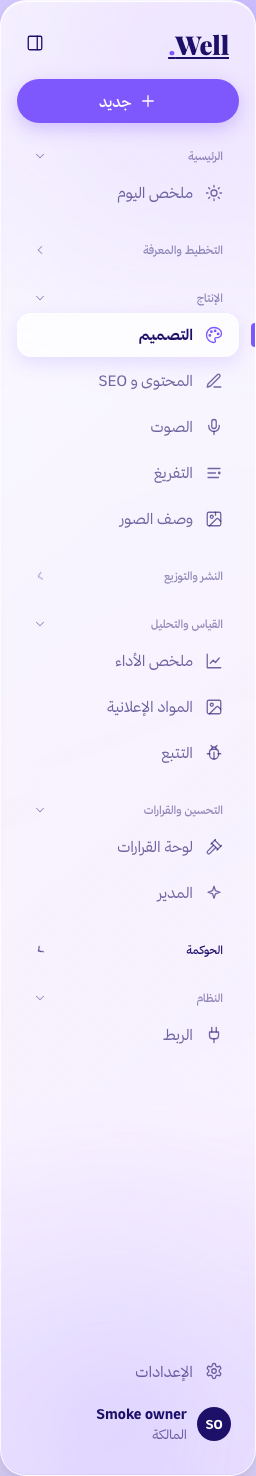
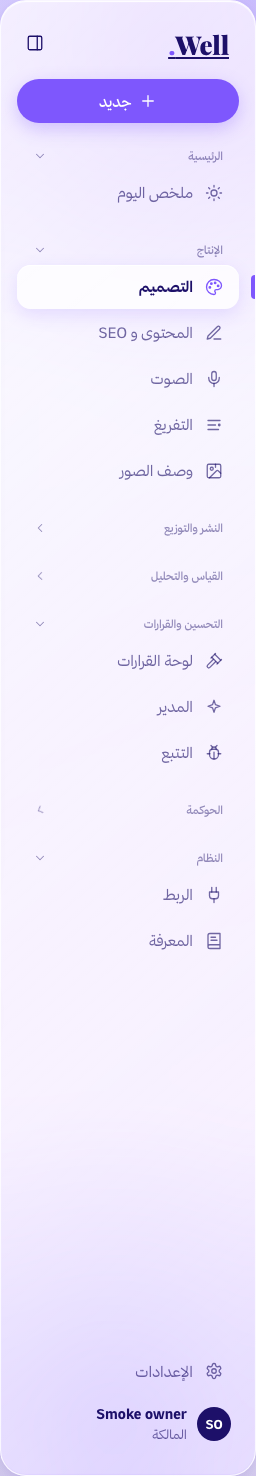
feat(nav): approved 7-group structure; Manager page groups agents, tasks and the tab picker by the same groups; docs/agents-org.md

diff --git a/public/modules/maestro/client.js b/public/modules/maestro/client.js
@@ -1,6 +1,6 @@
 // المدير: تبويبات (لوحة، الوارد، المهام، الإيجنتس، المحادثة) بالرابط، قائمة أو لوحة، فلاتر، بحث، ومهمة جديدة في نافذة.
 // اختصارات: C مهمة جديدة، / بحث، 1-5 التبويبات.
-import { $, $$, api, say, esc, fmt, shell, busy, pageSignal, failure, pageFailure, when } from '/assets/common.js';
+import { LANG, $, $$, api, say, esc, fmt, shell, busy, pageSignal, failure, pageFailure, when } from '/assets/common.js';
 import { mountPeriod } from '/assets/period.js';
 
 // Runs on every visit of this page (assets/router.js calls it after each ClientRouter navigation).
@@ -36,6 +36,18 @@ export default async function mount() {
   const working = id => (S.issues || []).find(i => i.assigneeAgentId === id && i.status === 'in_progress');
   const matches = (...xs) => { const q = $('#q').value.trim().toLowerCase(); return !q || xs.some(x => String(x || '').toLowerCase().includes(q)); };
 
+  // The same groups as the sidebar (S.groups, from the server): lists and the task picker are grouped by them
+  const GEN = ['general', 'عام', 'General'];
+  const glabel = g => (LANG === 'en' ? g.en : g.ar);
+  const tabGroup = k => (S.tabs || []).find(t => t.key === k)?.group || GEN[0];
+  const issueGroup = i => tabGroup((S.projectTabs || {})[i.projectId]);
+  const agentGroup = id => issueGroup((S.issues || []).find(i => i.assigneeAgentId === id && (S.projectTabs || {})[i.projectId]) || {});
+  const grouped = (items, keyOf, render) => {
+    const gs = [...(S.groups || []), { key: GEN[0], ar: GEN[1], en: GEN[2] }];
+    return gs.map(g => { const xs = items.filter(x => (gs.some(y => y.key === keyOf(x)) ? keyOf(x) : GEN[0]) === g.key);
+      return xs.length ? `<section class="mx-grp"><h3 class="mx-gh">${esc(glabel(g))} <span class="muted">${xs.length}</span></h3><div class="mx-list">${xs.map(render).join('')}</div></section>` : ''; }).join('');
+  };
+
   // ---- the views
   const taskRow = i => `<article class="card mx-item"><span class="mx-dot ${esc(i.status)}" title="${esc(S.statuses[i.status] || i.status)}"></span><span class="mx-id">${esc(i.identifier || '')}</span>
     <b>${esc(i.title || '')}</b>${tabName(i) ? `<span class="so-chip mx-tab">${esc(tabName(i))}</span>` : ''}<span class="muted">${esc(names()[i.assigneeAgentId] || '')}</span><span class="so-chip">${esc(S.statuses[i.status] || i.status)}</span></article>`;
@@ -59,7 +71,7 @@ export default async function mount() {
   function tasks() {
     const is = (S.issues || []).filter(i => (filter === 'all' || i.status === filter) && matches(i.title, i.identifier, names()[i.assigneeAgentId], tabName(i)));
     if (!is.length) return empty('tasks', 'ما فيه مهام تطابق الفلتر أو البحث.', 'أنشئ مهمة');
-    if (layout === 'list') return `<div class="mx-list">${is.map(taskRow).join('')}</div>`;
+    if (layout === 'list') return grouped(is, issueGroup, taskRow);
     return `<div class="mx-cols">${COLS.map(c => { const col = is.filter(i => i.status === c || (c === 'todo' && i.status === 'backlog'));
       return `<section class="mx-col"><h3><span class="mx-dot ${c}"></span>${esc(S.statuses[c] || c)} <span class="muted">${col.length}</span></h3>${col.map(taskRow).join('')}</section>`; }).join('')}</div>`;
   }
@@ -70,7 +82,7 @@ export default async function mount() {
     const card = a => `<article class="card mx-item" data-agent="${esc(a.id)}"><span class="mx-dot ${a.status === 'running' ? 'in_progress' : a.status === 'error' ? 'blocked' : a.status === 'paused' ? 'cancelled' : 'done'}"></span>
       <b>${esc(a.name)}</b><span class="muted">${esc(a.title || a.role || '')}</span><span class="so-chip">${AG[a.status] || esc(a.status)}</span>
       ${spend(a)}${tabsOf(a.id).length ? `<span class="muted">التابات: ${esc(tabsOf(a.id).join('، '))}</span>` : ''}${working(a.id) ? `<span class="mx-now">يشتغل على: ${esc(working(a.id).identifier || '')} ${esc(working(a.id).title || '')}</span>` : ''}<button type="button" class="btn sm ghost" data-perf>الأداء</button></article>`;
-    if (layout === 'list') return `<div class="mx-list">${as.map(card).join('')}</div>`;
+    if (layout === 'list') return grouped(as, a => agentGroup(a.id), card);
     // Org chart: who reports to whom
     const ids = new Set(as.map(a => a.id));
     const tree = parent => { const kids = as.filter(a => (a.reportsTo && ids.has(a.reportsTo) ? a.reportsTo : null) === parent);
@@ -133,7 +145,7 @@ export default async function mount() {
     }
     $('#setup').innerHTML = ''; $('#board').hidden = false;
     if (!$('#agent').dataset.done) { $('#agent').insertAdjacentHTML('beforeend', (S.agents || []).map(a => `<option value="${esc(a.id)}">${esc(a.name)}${a.title ? ' · ' + esc(a.title) : ''}</option>`).join('')); $('#agent').dataset.done = '1'; }
-    if (!$('#tab').dataset.done) { $('#tab').insertAdjacentHTML('beforeend', (S.tabs || []).map(t => `<option value="${esc(t.key)}">${esc(t.ar)}</option>`).join('')); $('#tab').dataset.done = '1'; }
+    if (!$('#tab').dataset.done) { $('#tab').insertAdjacentHTML('beforeend', (S.groups || []).map(g => { const ts = (S.tabs || []).filter(t => t.group === g.key); return ts.length ? `<optgroup label="${esc(glabel(g))}">${ts.map(t => `<option value="${esc(t.key)}">${esc(t.ar)}</option>`).join('')}</optgroup>` : ''; }).join('')); $('#tab').dataset.done = '1'; }
     draw();
   }
 

diff --git a/src/modules/maestro/routes.ts b/src/modules/maestro/routes.ts
@@ -4,7 +4,7 @@ import { summarize, TARGETS, type VitalRow } from '../../lib/vitals';
 import { sb, json, missingSchema, notApplied, readJson, handle, requireUser, audit, isOwner, atLeast, notEnabled, type AuthEnv, type Cfg } from '../../lib/auth';
 import { budget, chatLines, client, cleanTask, items, performance, STATUS, tabOf, withBrief, type PcEnv } from './paperclip';
 import { parseRangeParams, rangeMs } from '../../../public/assets/period.js';
-import { MODULES } from '../registry';
+import { MODULES, GROUPS } from '../registry';
 import { knowledgeFor } from '../knowledge/knowledge';
 import { crmFor } from './health';
 import { dataHealth, PARTS, type Part } from './datahealth';
@@ -17,7 +17,7 @@ async function companyOf(cfg: Cfg, co: string): Promise<Co | null> {
   return r.ok && Array.isArray(r.data) ? r.data[0] || null : null;
 }
 // The tabs a task can be sent to (every live tab but this one), and which Paperclip project belongs to which tab
-const TABS = MODULES.filter(m => m.status === 'live' && m.key !== 'maestro').map(m => ({ key: m.key, ar: m.ar }));
+const TABS = MODULES.filter(m => m.status === 'live' && m.key !== 'maestro').map(m => ({ key: m.key, ar: m.ar, group: m.group }));
 const projectTabs = (projects: Record<string, unknown>[]) => Object.fromEntries(projects.map(p => [String(p.id), tabOf(p.name)]).filter(([, k]) => k));
 const notSet = (user?: { role: string }) => json(503, { error: notEnabled(user, 'المدير', 'PAPERCLIP_URL و PAPERCLIP_TOKEN'), setup: true });
 
@@ -30,7 +30,7 @@ export const state = { GET: handle(async (request, e: Env) => {
   let agents: unknown[] = [], issues: unknown[] = [], approvals: unknown[] = [], company: Record<string, unknown> = {}, projects: Record<string, unknown>[] = [];
   try { [agents, issues, approvals, company, projects] = await Promise.all([pc.agents(c.paperclip_company_id), pc.issues(c.paperclip_company_id), pc.approvals(c.paperclip_company_id), pc.company(c.paperclip_company_id), pc.projects(c.paperclip_company_id)]); }
   catch (err) { console.error('maestro_state_failed', (err as Error).message); return json(502, { error: 'المدير مو متاح الحين، جرّب بعد شوي' }); }
-  return json(200, { connected: true, owner: isOwner(user, cfg), canApprove: atLeast(user, 'maestro', 'approve', cfg), canEdit: atLeast(user, 'maestro', 'edit', cfg), statuses: STATUS, budget: budget(company), tabs: TABS, projectTabs: projectTabs(projects), agents, issues, approvals });
+  return json(200, { connected: true, owner: isOwner(user, cfg), canApprove: atLeast(user, 'maestro', 'approve', cfg), canEdit: atLeast(user, 'maestro', 'edit', cfg), statuses: STATUS, budget: budget(company), tabs: TABS, groups: GROUPS, projectTabs: projectTabs(projects), agents, issues, approvals });
 }) };
 
 // One agent's performance card for a period: ?from=&to= (Riyadh days, at most a year) or the old ?days=7|30

diff --git a/tests/unit/sidebar.test.ts b/tests/unit/sidebar.test.ts
@@ -37,18 +37,18 @@ describe('sidebar', () => {
 
 describe('sidebar groups', () => {
   const secs = (m: ReturnType<typeof me>) => sections(m, L) as { key: string; label: string; items: Item[] }[];
-  it('follows the marketing order: plan, create, distribute, measure, optimize, govern, system', () => {
-    expect(secs(me()).map(s => s.key)).toEqual(['home', 'plan', 'produce', 'distribute', 'measure', 'optimize', 'govern', 'system']);
-    expect(secs(me()).map(s => s.label)).toEqual(['الرئيسية', 'التخطيط والمعرفة', 'الإنتاج', 'النشر والتوزيع', 'القياس والتحليل', 'التحسين والقرارات', 'الحوكمة', 'النظام']);
+  it('follows the marketing order: create, distribute, measure, optimize, govern, system', () => {
+    expect(secs(me()).map(s => s.key)).toEqual(['home', 'produce', 'distribute', 'measure', 'optimize', 'govern', 'system']);
+    expect(secs(me()).map(s => s.label)).toEqual(['الرئيسية', 'الإنتاج', 'النشر والتوزيع', 'القياس والتحليل', 'التحسين والقرارات', 'الحوكمة', 'النظام']);
   });
   it('puts every tab in its group', () => {
     const at = Object.fromEntries(secs(me()).flatMap(s => s.items.map(i => [i.text, s.key])));
     expect(at).toMatchObject({
-      'الرصد': 'plan', 'المعرفة': 'plan',
+      'الرصد': 'measure', 'المعرفة': 'system',
       'التصميم': 'produce', 'المحتوى و SEO': 'produce', 'الصوت': 'produce', 'التفريغ': 'produce', 'وصف الصور': 'produce',
       'السوشال': 'distribute', 'الرحلات والرسائل': 'distribute',
-      'ملخص الأداء': 'measure', 'المواد الإعلانية': 'measure', 'التتبع': 'measure',
-      'لوحة القرارات': 'optimize', 'المدير': 'optimize',
+      'ملخص الأداء': 'measure', 'المواد الإعلانية': 'measure',
+      'لوحة القرارات': 'optimize', 'المدير': 'optimize', 'التتبع': 'optimize',
       'الامتثال': 'govern', 'السجل': 'govern', 'الصلاحيات': 'govern',
       'الربط': 'system',
     });
@@ -59,5 +59,14 @@ describe('sidebar groups', () => {
   });
   it('shows owner-only Permissions to the owner only', () => {
     expect(secs(me({ role: 'member' })).flatMap(s => s.items).some(i => i.key === 'admin')).toBe(false);
+  });
+});
+
+describe('one list of groups', () => {
+  it('every module sits in a group of the shared list, and each group has a tab', async () => {
+    const { GROUPS } = await import('../../src/modules/registry');
+    const keys = GROUPS.map(g => g.key);
+    expect(keys).toEqual(['home', 'produce', 'distribute', 'measure', 'optimize', 'govern', 'system']);
+    for (const m of MODULES) expect(keys, m.key).toContain(m.group);
   });
 });

diff --git a/public/assets/sidebar.js b/public/assets/sidebar.js
@@ -1,5 +1,5 @@
 // أقسام القائمة الجانبية، نفسها في common.js (صفحات Astro) و nav.js (لوحات التحليلات والمواد الإعلانية).
-// ثمانية أقسام على ترتيب التسويق: الرئيسية ← التخطيط ← الإنتاج ← النشر ← القياس ← التحسين ← الحوكمة ← النظام. تحت كل قسم أدواته. الموديولات تجي من السيرفر (me.modules ← src/modules/registry.ts)
+// سبعة أقسام على ترتيب التسويق: الرئيسية ← الإنتاج ← النشر ← القياس ← التحسين ← الحوكمة ← النظام. تحت كل قسم أدواته. الموديولات تجي من السيرفر (me.modules ← src/modules/registry.ts)
 // وكل موديول يحدد قسمه بـ group. HUBS (src/lib/gate.ts) تبقى للروابط القديمة /performance و/create و/review و/system.
 // state: ok = يفتح، noaccess = ما عندك صلاحية، locked = مقفل لشركتك، soon = قريباً.
 const SUN = '<circle cx="12" cy="12" r="4"/><path d="M12 2v2M12 20v2M4.9 4.9l1.4 1.4M17.7 17.7l1.4 1.4M2 12h2M20 12h2M4.9 19.1l1.4-1.4M17.7 6.3l1.4-1.4"/>';
@@ -7,7 +7,6 @@ const SHIELD = '<path d="M20 13c0 5-3.5 7.5-7.7 9a1 1 0 0 1-.6 0C7.5 20.5 4 18 4
 
 export const GROUPS = [
   ['home', 'الرئيسية', 'Home'],
-  ['plan', 'التخطيط والمعرفة', 'Plan & knowledge'],
   ['produce', 'الإنتاج', 'Create'],
   ['distribute', 'النشر والتوزيع', 'Publish & distribute'],
   ['measure', 'القياس والتحليل', 'Measure & analyze'],
@@ -57,10 +56,9 @@ export function sections(me, L) {
   const one = (useNew, newer, older) => (useNew ? newer : older);
   const items = {
     home: [core('/today/', 'ملخص اليوم', 'Today', SUN, 'today', true), ...mods('home')],
-    plan: mods('plan'),
     produce: mods('produce'),
     distribute: mods('distribute'),
-    // ملخص الأداء (موديول overview وصفحاته) أول، بعده المواد الإعلانية، بعدها أدوات القياس (التتبع)
+    // ملخص الأداء (موديول overview وصفحاته) أول، بعده المواد الإعلانية، بعدها الرصد
     measure: [
       one(ov, core('/overview/', 'ملخص الأداء', 'Performance summary', 'chart', 'overview', true), core('/', 'ملخص الأداء', 'Performance summary', 'chart', 'ceo')),
       one(ov, core('/overview/creative/', 'المواد الإعلانية', 'Creatives', 'image', 'overview:creative', true), core('/?view=creative', 'المواد الإعلانية', 'Creatives', 'image', 'creative')),

diff --git a/src/modules/registry.ts b/src/modules/registry.ts
@@ -1,6 +1,8 @@
 // Every tab of the agents system, in sidebar order. Adding a tab = a folder with module.ts, then one line here.
 // Meta only (no routes), so auth and the gate can read it without importing the modules' code.
 import type { ModuleMeta } from './types';
+// The sidebar groups: one list, defined next to the sidebar (public/assets/sidebar.js) and read here, by the Manager page and by the tests
+import { GROUPS as SIDEBAR_GROUPS } from '../../public/assets/sidebar.js';
 import { meta as maestroMeta } from './maestro/module';
 import { meta as socialMeta } from './social/module';
 import { meta as journeysMeta } from './journeys/module';
@@ -17,9 +19,11 @@ import { meta as transcribeMeta } from './transcribe/module';
 import { meta as visionMeta } from './vision/module';
 import { meta as voiceoverMeta } from './voiceover/module';
 
-// Listed by sidebar group, in marketing order: plan, produce, distribute, measure, optimize, govern, system
-export const MODULES: ModuleMeta[] = [overviewMeta, debuggerMeta, listeningMeta, knowledgeMeta, designMeta, contentMeta, copyMeta, voiceMeta, voiceoverMeta, transcribeMeta, visionMeta, socialMeta, journeysMeta, maestroMeta, complianceMeta];
+// Listed by sidebar group, in marketing order: produce, distribute, measure, optimize, govern, system
+export const MODULES: ModuleMeta[] = [overviewMeta, listeningMeta, designMeta, contentMeta, copyMeta, voiceMeta, voiceoverMeta, transcribeMeta, visionMeta, socialMeta, journeysMeta, maestroMeta, debuggerMeta, complianceMeta, knowledgeMeta];
 export const LIVE = MODULES.filter(m => m.status === 'live').map(m => m.key);
 // The sections of a tab: the modules shown inside it (voiceover in voice, copy in content)
 export const sectionsOf = (key: string): string[] => MODULES.filter(m => m.into === key).map(m => m.key);
 export const isModule = (k: string): boolean => MODULES.some(m => m.key === k);
+
+export const GROUPS: { key: string; ar: string; en: string }[] = (SIDEBAR_GROUPS as string[][]).map(([key, ar, en]) => ({ key: key!, ar: ar!, en: en! }));

diff --git a/tests/smoke/smoke.spec.ts b/tests/smoke/smoke.spec.ts
@@ -198,7 +198,7 @@ test.describe('sidebar and language (browser)', () => {
     await addSession(context, await login(request, 'owner'));
     await page.goto('/today/');
     const heads = page.locator('.side-h[data-g]');
-    await expect(heads).toHaveText(['الرئيسية', 'التخطيط والمعرفة', 'الإنتاج', 'النشر والتوزيع', 'القياس والتحليل', 'التحسين والقرارات', 'الحوكمة', 'النظام']);
+    await expect(heads).toHaveText(['الرئيسية', 'الإنتاج', 'النشر والتوزيع', 'القياس والتحليل', 'التحسين والقرارات', 'الحوكمة', 'النظام']);
     const design = page.locator('a.navi[data-k="design"]');
     await expect(design).toBeVisible();
     await page.locator('.side-h[data-g="produce"]').click();
@@ -209,8 +209,6 @@ test.describe('sidebar and language (browser)', () => {
     // Opening a page of the folded group shows it again, with its highlight
     await page.goto('/design/');
     await expect(page.locator('a.navi[data-k="design"][aria-current="page"]')).toBeVisible();
-    await page.locator('.side-h[data-g="produce"]').click(); // fold is a user choice only while the page is elsewhere: this toggles the open group shut
-    await page.locator('.side-h[data-g="produce"]').click();
     await expect(page.locator('a.navi[data-k="design"]')).toBeVisible();
   });
   test('the language switch flips the page to English, left to right, and back', async ({ page, context, request }) => {

diff --git a/src/modules/debugger/module.ts b/src/modules/debugger/module.ts
@@ -1,7 +1,7 @@
 import type { ModuleMeta } from '../types';
 
 export const meta: ModuleMeta = {
-  key: 'debugger', ar: "التتبع", en: "Tracking", group: 'measure', status: 'live',
+  key: 'debugger', ar: "التتبع", en: "Tracking", group: 'optimize', status: 'live',
   icon: "<path d=\"m8 2 1.9 1.9M16 2l-1.9 1.9\"/><path d=\"M9 7.1V7a3 3 0 1 1 6 0v.1\"/><path d=\"M12 20c-3.3 0-6-2.7-6-6v-3a4 4 0 0 1 4-4h4a4 4 0 0 1 4 4v3c0 3.3-2.7 6-6 6Z\"/><path d=\"M12 20v-9M6.5 13H3M21 13h-3.5\"/>",
   does: ["يفحص التتبع من بياناتنا: منصة وقفت أرقامها، أو إعلان ليدز يصرف بدون ولا ليد", "يقارن ليدز كل منصة بليدز الـ CRM ويطلع الفرق", "ليدز بدون رقم إعلان، وروابط بدون UTM، ومنصات ما توصلها تحويلات موقعك مباشرة", "كل مشكلة معها الحل، وكله قراءة بس"],
   doesEn: ["Checks tracking from our own data: a platform whose numbers stopped, or lead ads spending with no lead", "Compares each platform's leads with CRM leads", "Leads with no ad id, links without UTM, platforms that do not receive your site's conversions directly", "Each issue comes with its fix; read-only"],

diff --git a/src/modules/listening/module.ts b/src/modules/listening/module.ts
@@ -1,7 +1,7 @@
 import type { ModuleMeta } from '../types';
 
 export const meta: ModuleMeta = {
-  key: 'listening', ar: "الرصد", en: "Social listening", group: 'plan', status: 'live',
+  key: 'listening', ar: "الرصد", en: "Social listening", group: 'measure', status: 'live',
   icon: "<path d=\"M7.9 20A9 9 0 1 0 4 16.1L2 22Z\"/>",
   does: ["وش يشد الناس في منشوراتنا على فيسبوك وانستقرام وتيك توك", "تتابع كلمات (خدمات أو منافسين) وتشوف تفاعل الناس معها مقارنة بالمعتاد", "منشورات تفاعلها ضعف المعتاد، ومنشورات فيها نقاش", "تغيّر الطلب من كل مصدر ليدز هالأسبوع مقارنة باللي قبله"],
   doesEn: ["What draws people in our Facebook, Instagram and TikTok posts", "Watch keywords (services or competitors) and their engagement against the usual", "Posts with twice the usual engagement, and posts with conversation", "This week's demand per lead source against last week"],

diff --git a/src/modules/knowledge/module.ts b/src/modules/knowledge/module.ts
@@ -1,7 +1,7 @@
 import type { ModuleMeta } from '../types';
 
 export const meta: ModuleMeta = {
-  key: 'knowledge', ar: "المعرفة", en: "Knowledge", group: 'plan', status: 'live',
+  key: 'knowledge', ar: "المعرفة", en: "Knowledge", group: 'system', status: 'live',
   icon: "<path d=\"M4 19.5v-15A2.5 2.5 0 0 1 6.5 2H20v20H6.5a2.5 2.5 0 0 1 0-5H20\"/><path d=\"M8 7h6\"/><path d=\"M8 11h8\"/>",
   does: ["تعلّم الذكاء الاصطناعي صوت علامتك وخدماتك وأسعارك", "الادعاءات المعتمدة والكلمات الممنوعة", "إعلانات نجحت كأمثلة", "كل موديول يقرا المعرفة الفعّالة قبل ما يكتب"],
   doesEn: ["Teach the AI your brand voice, services and prices", "Approved claims and forbidden words", "Winning ads as examples", "Every module reads the active knowledge before it writes"],

diff --git a/src/modules/types.ts b/src/modules/types.ts
@@ -1,12 +1,12 @@
 // One tab = one module. A module owns its folder (src/modules/<key>/) and its script (public/modules/<key>/client.js).
-// status: live = built; soon = shows "قريباً" with what it will do. group = which of the eight sidebar groups it sits under
+// status: live = built; soon = shows "قريباً" with what it will do. group = which of the seven sidebar groups it sits under
 // (public/assets/sidebar.js GROUPS).
 export interface ModuleMeta {
   key: string;
   ar: string;
   en: string;
   icon: string;          // Lucide SVG paths (stroke 1.75)
-  group: 'home' | 'plan' | 'produce' | 'distribute' | 'measure' | 'optimize' | 'govern' | 'system';
+  group: 'home' | 'produce' | 'distribute' | 'measure' | 'optimize' | 'govern' | 'system';
   status: 'live' | 'soon';
   does: string[];
   doesEn: string[];

diff --git a/docs/agents-org.md b/docs/agents-org.md
@@ -1,0 +1,72 @@
+# هيكل الإيجنتس المستهدف
+
+نفس تقسيم القائمة الجانبية (`GROUPS` في `public/assets/sidebar.js`، ويقرؤه `src/modules/registry.ts` وصفحة المدير). الإيجنتس نفسهم يعيشون في Paperclip (`docs/paperclip.md`)، وهذا الملف هو الشكل اللي نبي نوصله. الكود ما يسوي شي في Paperclip لين يتربط.
+
+## القاعدة الثابتة
+**ولا إيجنت يكتب على الحسابات الإعلانية** (ميتا، تيك توك، سناب، قوقل). كلهم يقرؤون، يقترحون، ويكتبون مسودات ومهام. أي تغيير فعلي (ميزانية، إيقاف، نشر) يمرّ بقرار في لوحة القرارات وموافقة من إنسان.
+
+## الهيكل
+```
+المدير (CEO)
+├─ قائد القياس والتحليل
+│   ├─ محلل الأداء        ← ملخص الأداء والمواد الإعلانية
+│   └─ الراصد             ← الرصد
+├─ قائد الإنتاج
+│   ├─ المصمم             ← التصميم
+│   ├─ الكوبي رايتر       ← المحتوى و SEO (والكوبي رايتر)
+│   ├─ الصوتي             ← الصوت والفويس أوفر
+│   ├─ المفرّغ            ← التفريغ
+│   └─ واصف الصور         ← وصف الصور
+├─ قائد النشر والتوزيع
+│   ├─ مدير السوشال       ← السوشال
+│   └─ مصمم الرحلات       ← الرحلات والرسائل
+├─ قائد التحسين والقرارات
+│   ├─ المتتبع (Debugger) ← التتبع
+│   └─ الناقد / المدقق    ← لوحة القرارات (يراجع قبل ما يوصل قرار للإنسان)
+├─ قائد الحوكمة
+│   └─ مراقب الامتثال     ← الامتثال والسجل
+└─ قائد النظام
+    ├─ أمين المعرفة       ← المعرفة
+    └─ مشرف الربط         ← الربط
+```
+«الرئيسية» (احلم) ما لها قائد: هي واجهة المدير نفسه.
+
+## الإيجنتس: مهمة كل واحد وما يقرأه
+| الإيجنت | مهمته (سطر واحد) | يقرأ | يكتب |
+|---|---|---|---|
+| المدير (CEO) | يوزّع المهام على القادة ويلخّص للمالكة | ملخصات القادة، الوارد | مهام وتعليقات |
+| قائد القياس والتحليل | يتابع الأرقام ويرفع ما يستحق انتباه | ملخص الأداء، المواد، الرصد | مهام وملاحظات |
+| محلل الأداء | يشرح وش تغيّر في الصرف والنتائج ولماذا | أرقام الحملات والمواد (قراءة فقط) | ملاحظات |
+| الراصد | يلخص كلام الناس عن Well والمنافسين | نتائج الرصد | ملخصات |
+| قائد الإنتاج | يرتب طلبات الإنتاج حسب الأولوية | مهام الإنتاج | مهام |
+| المصمم | يقترح تصاميم من الموجز | الموجز، مكتبة المواد | مسودات تصميم |
+| الكوبي رايتر | يكتب نصوص إعلانية ومقالات SEO | الموجز، المعرفة | مسودات نصوص |
+| الصوتي | يجهّز نص وتعليق صوتي | النص المعتمد | مسودات صوت |
+| المفرّغ | يفرّغ الصوت والفيديو لنص | الملفات المرفوعة | نص التفريغ |
+| واصف الصور | يوصف الصور ويكتب النص البديل | الصور المرفوعة | أوصاف |
+| قائد النشر والتوزيع | يرتب جدول النشر والرحلات | جدول السوشال، الرحلات | مهام |
+| مدير السوشال | يجهّز المنشورات والمواعيد | المحتوى المعتمد، الجدول | مسودات منشورات (النشر بموافقة) |
+| مصمم الرحلات | يرسم رحلات الرسائل | بيانات الرحلات | مسودات رحلات |
+| قائد التحسين والقرارات | يحوّل التوصيات لقرارات قابلة للتنفيذ | القرارات، تقارير القياس | مهام |
+| المتتبع (Debugger) | يتأكد إن البكسل والأحداث تنقاس صح | سجلات التتبع | تقرير مشاكل |
+| الناقد / المدقق | يراجع التوصيات ويرفض اللي أرقامه ضعيفة | القرارات المقترحة والأرقام | تعليق قبول أو رفض |
+| قائد الحوكمة | يتأكد إن كل شي يمرّ بالمراجعة | الامتثال، السجل | مهام |
+| مراقب الامتثال | يفحص المحتوى على ضوابط وزارة الصحة | المحتوى والإعلانات (قراءة) | تقرير مخالفات |
+| قائد النظام | يتابع صحة الربط والمعرفة | حالة الربط | مهام |
+| أمين المعرفة | يحدّث المعرفة بالمعتمد فقط | المعرفة والدروس | اقتراحات تحديث |
+| مشرف الربط | ينبّه لما ينقطع ربط منصة | حالة الربط (بدون المفاتيح) | تنبيهات |
+
+لا أحد منهم يقرأ مفاتيح الربط أو الأسرار.
+
+## وش تسوي لين نربط Paperclip (يدوياً، لين)
+1. في Paperclip أنشئ إيجنت لكل صف في الجدول، وخلّ `reportsTo` للقائد، والقادة تحت المدير.
+2. أسند كل إيجنت لمشروع تابه `tab · <مفتاح التاب>` (مثل `tab · social`)، والقادة يتابعون مشاريع تابات مجموعتهم.
+3. اختر الموديل لكل إيجنت (`docs/paperclip.md`) وحدّد ميزانية شهرية.
+4. لا تعطي أي إيجنت مفاتيح الحسابات الإعلانية.
+
+## وش يسوّيه PR لاحق
+- زر للمالكة في المدير يقارن الإيجنتس الموجودين بهذا الجدول ويقترح الإنشاء والنقل (يحتاج اتصال Paperclip، خارج هذا التغيير).
+- إسناد المهمة الجديدة تلقائياً لإيجنت التاب من قائد مجموعته.
+
+## وش تغيّر في الكود الحين
+صفحة المدير تعرض قائمة المهام والإيجنتس مقسّمة بنفس مجموعات القائمة الجانبية (والمهام بدون تاب تحت «عام»)، وقائمة «لأي تاب» في نافذة المهمة مقسّمة بالمجموعات كذلك.

diff --git a/src/modules/README.md b/src/modules/README.md
@@ -5,7 +5,7 @@
 ## ملفات الموديول
 | المكان | وش فيه |
 |---|---|
-| `src/modules/<key>/module.ts` | الاسم بالعربي والإنجليزي، الأيقونة، الوجهة في القائمة (`group`: home / plan / produce / distribute / measure / optimize / govern / system، بترتيب القائمة)، الحالة (`live` / `soon`)، ووش يسوي |
+| `src/modules/<key>/module.ts` | الاسم بالعربي والإنجليزي، الأيقونة، الوجهة في القائمة (`group`: home / produce / distribute / measure / optimize / govern / system، بترتيب القائمة)، الحالة (`live` / `soon`)، ووش يسوي |
 | `src/modules/<key>/routes.ts` | الـ API: `/api/<key>/<action>` |
 | `src/modules/<key>/*.ts` | منطق الموديول |
 | `src/modules/<key>/Page.astro` | الصفحة (`/<key>/`)، و`src/pages/<key>/index.astro` سطرين يستوردها بس |
